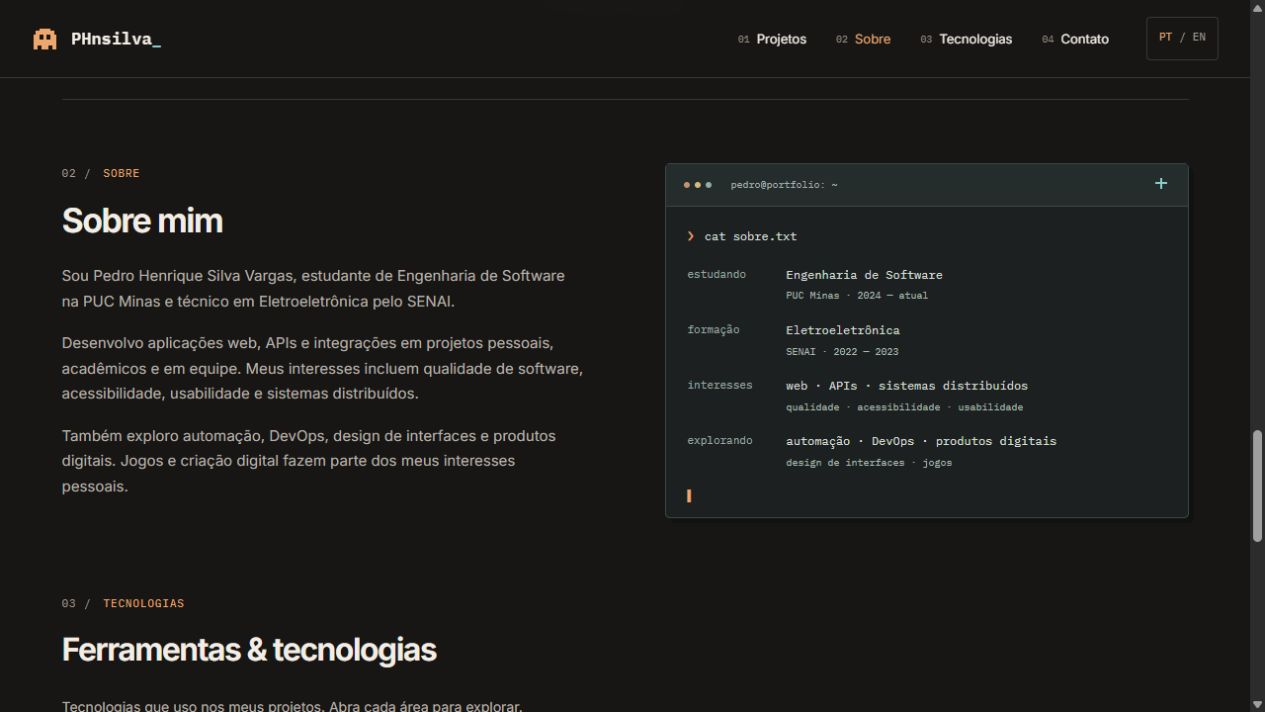
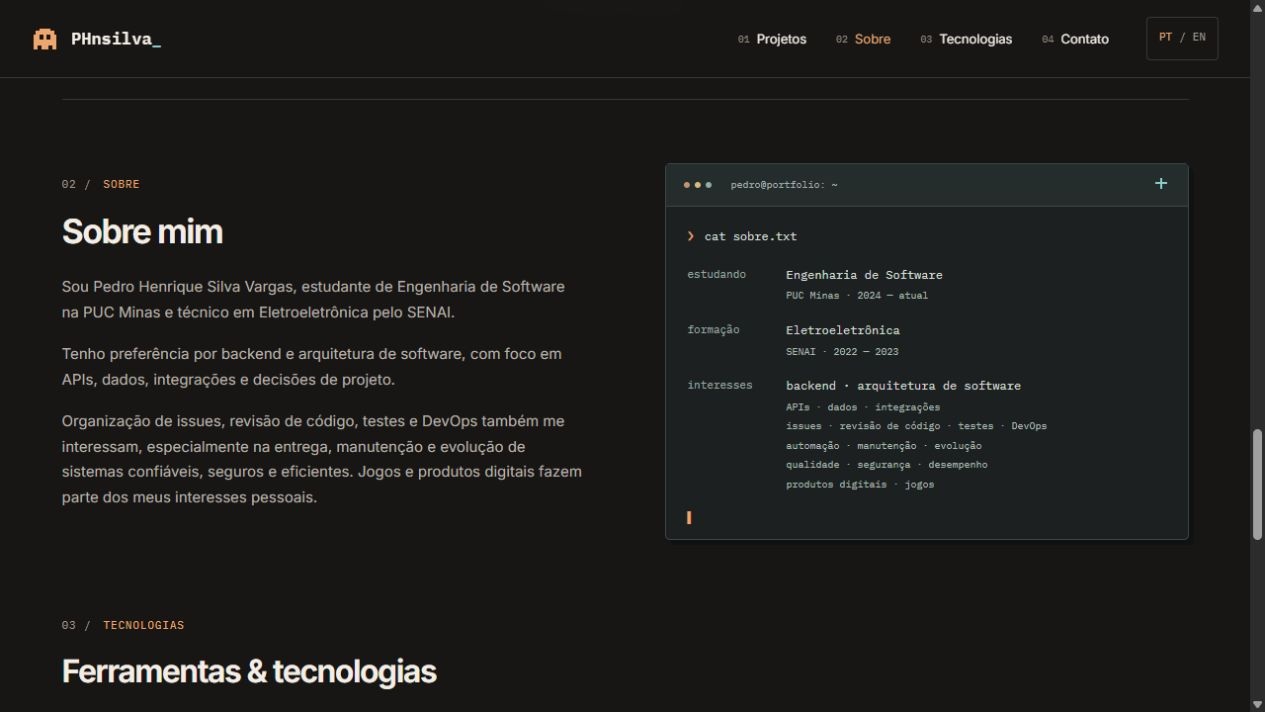
fix: corrige interesses e seleção da navegação (#5)

diff --git a/frontend/src/pages/Home.tsx b/frontend/src/pages/Home.tsx
@@ -196,16 +196,16 @@ export default function Home() {
           <p>
             {pick(
               b(
-                'Desenvolvo aplicações web, APIs e integrações em projetos pessoais, acadêmicos e em equipe. Meus interesses incluem qualidade de software, acessibilidade, usabilidade e sistemas distribuídos.',
-                'I develop web applications, APIs and integrations in personal, academic and team projects. My interests include software quality, accessibility, usability and distributed systems.',
+                'Tenho preferência por backend e arquitetura de software, com foco em APIs, dados, integrações e decisões de projeto.',
+                'I prefer backend development and software architecture, with a focus on APIs, data, integrations and design decisions.',
               ),
             )}
           </p>
           <p>
             {pick(
               b(
-                'Também exploro automação, DevOps, design de interfaces e produtos digitais. Jogos e criação digital fazem parte dos meus interesses pessoais.',
-                'I also explore automation, DevOps, interface design and digital products. Games and digital creation are among my personal interests.',
+                'Organização de issues, revisão de código, testes e DevOps também me interessam, especialmente na entrega, manutenção e evolução de sistemas confiáveis, seguros e eficientes. Jogos e produtos digitais fazem parte dos meus interesses pessoais.',
+                'I am also interested in issue planning, code review, testing and DevOps, especially in delivering, maintaining and evolving reliable, secure and efficient systems. Games and digital products are among my personal interests.',
               ),
             )}
           </p>
@@ -242,31 +242,32 @@ export default function Home() {
               <div>
                 <dt>{pick(b('interesses', 'interests'))}</dt>
                 <dd>
-                  {pick(
-                    b('web · APIs · sistemas distribuídos', 'web · APIs · distributed systems'),
-                  )}
+                  {pick(b('backend · arquitetura de software', 'backend · software architecture'))}
+                  <small>
+                    {pick(b('APIs · dados · integrações', 'APIs · data · integrations'))}
+                  </small>
                   <small>
                     {pick(
                       b(
-                        'qualidade · acessibilidade · usabilidade',
-                        'quality · accessibility · usability',
+                        'issues · revisão de código · testes · DevOps',
+                        'issues · code review · testing · DevOps',
                       ),
                     )}
                   </small>
-                </dd>
-              </div>
-              <div>
-                <dt>{pick(b('explorando', 'exploring'))}</dt>
-                <dd>
-                  {pick(
-                    b(
-                      'automação · DevOps · produtos digitais',
-                      'automation · DevOps · digital products',
-                    ),
-                  )}
                   <small>
-                    {pick(b('design de interfaces · jogos', 'interface design · games'))}
+                    {pick(
+                      b(
+                        'automação · manutenção · evolução',
+                        'automation · maintenance · evolution',
+                      ),
+                    )}
                   </small>
+                  <small>
+                    {pick(
+                      b('qualidade · segurança · desempenho', 'quality · security · performance'),
+                    )}
+                  </small>
+                  <small>{pick(b('produtos digitais · jogos', 'digital products · games'))}</small>
                 </dd>
               </div>
             </dl>

diff --git a/frontend/src/components/Layout.tsx b/frontend/src/components/Layout.tsx
@@ -27,7 +27,54 @@ function Header() {
   const { hash, pathname } = useLocation();
   const { lang, toggleLang, pick } = useI18n();
   const [open, setOpen] = useState(false);
+  const [activeSection, setActiveSection] = useState('');
   const menuButton = useRef<HTMLButtonElement>(null);
+  useEffect(() => {
+    if (pathname !== '/') return;
+    const sections = ['inicio', ...navigation.map((item) => item.id)]
+      .map((id) => document.getElementById(id))
+      .filter((section): section is HTMLElement => section !== null);
+    let frame = 0;
+    function update() {
+      frame = 0;
+      const headerBottom =
+        document.querySelector('.site-header')?.getBoundingClientRect().bottom ?? 0;
+      const marker = headerBottom + 24;
+      const visibleSections = sections.map((section) => ({
+        id: section.id,
+        bounds: section.getBoundingClientRect(),
+      }));
+      let current = visibleSections.find(
+        ({ bounds }) => bounds.top <= marker && bounds.bottom > marker,
+      )?.id;
+      if (
+        window.scrollY > 0 &&
+        window.scrollY + window.innerHeight >= document.documentElement.scrollHeight - 2
+      ) {
+        // At the page end, the final section may not reach the header's activation line.
+        const remainingSections = visibleSections.filter(
+          ({ bounds }) => bounds.bottom > headerBottom && bounds.top < window.innerHeight,
+        );
+        current = remainingSections[remainingSections.length - 1]?.id;
+      }
+      setActiveSection(current ?? '');
+    }
+    function schedule() {
+      if (!frame) frame = requestAnimationFrame(update);
+    }
+    schedule();
+    window.addEventListener('scroll', schedule, { passive: true });
+    window.addEventListener('resize', schedule);
+    const observer = typeof ResizeObserver === 'undefined' ? null : new ResizeObserver(schedule);
+    const main = document.getElementById('main-content');
+    if (main) observer?.observe(main);
+    return () => {
+      cancelAnimationFrame(frame);
+      window.removeEventListener('scroll', schedule);
+      window.removeEventListener('resize', schedule);
+      observer?.disconnect();
+    };
+  }, [pathname]);
   useEffect(() => {
     if (!open) return;
     const dismiss = (event: KeyboardEvent) => {
@@ -82,7 +129,7 @@ function Header() {
                   requestAnimationFrame(() => focusSection(hash));
                 }
               }}
-              aria-current={hash === `#${item.id}` ? 'location' : undefined}
+              aria-current={activeSection === item.id ? 'location' : undefined}
             >
               <span className="nav-index" aria-hidden="true">
                 0{index + 1}

diff --git a/frontend/tests/navigation.test.tsx b/frontend/tests/navigation.test.tsx
@@ -1,0 +1,51 @@
+import { afterEach, describe, expect, it, vi } from 'vitest';
+import { fireEvent, render, screen, waitFor } from '@testing-library/react';
+import App from '../src/App';
+import { I18nProvider } from '../src/i18n/I18nProvider';
+
+afterEach(() => vi.restoreAllMocks());
+
+describe('navigation follows the visible section', () => {
+  it('updates selection during manual scrolling without reusing the URL hash', async () => {
+    let scroll = 3100;
+    const positions: Record<string, [number, number]> = {
+      inicio: [0, 800],
+      projetos: [900, 3000],
+      sobre: [3200, 3900],
+      ferramentas: [4000, 4700],
+      contato: [5000, 5250],
+    };
+    vi.spyOn(Element.prototype, 'getBoundingClientRect').mockImplementation(function () {
+      if (this.classList.contains('site-header')) return new DOMRect(0, 0, 1280, 80);
+      const [top, bottom] = positions[this.id] ?? [0, 0];
+      return new DOMRect(0, top - scroll, 1280, bottom - top);
+    });
+    window.history.replaceState(null, '', '/#sobre');
+    render(
+      <I18nProvider>
+        <App />
+      </I18nProvider>,
+    );
+    const about = screen.getByRole('link', { name: 'Sobre', exact: true });
+    const technologies = screen.getByRole('link', { name: 'Tecnologias', exact: true });
+    await waitFor(() => expect(about.getAttribute('aria-current')).toBe('location'));
+
+    scroll = 3900;
+    fireEvent.scroll(window);
+    await waitFor(() => expect(technologies.getAttribute('aria-current')).toBe('location'));
+    expect(about.hasAttribute('aria-current')).toBe(false);
+    expect(window.location.hash).toBe('#sobre');
+
+    scroll = 0;
+    fireEvent.scroll(window);
+    await waitFor(() => expect(document.querySelector('[aria-current="location"]')).toBeNull());
+
+    scroll = 900;
+    fireEvent.scroll(window);
+    await waitFor(() =>
+      expect(
+        screen.getByRole('link', { name: 'Projetos', exact: true }).getAttribute('aria-current'),
+      ).toBe('location'),
+    );
+  });
+});

diff --git a/frontend/tests/racer.test.ts b/frontend/tests/racer.test.ts
@@ -7,16 +7,16 @@ describe('pixel racer', () => {
     for (let i = 0; i < 3600; i++) advance(race, 1 / 60, () => 0);
     expect(race.crashed).toBe(false);
     expect(race.distance).toBeGreaterThan(2000);
-    expect(race.speed).toBe(540);
+    expect(race.speed).toBe(810);
     expect(race.obstacles.every((o) => o.y < ROAD.height + 48)).toBe(true);
     const rows = race.obstacles.map((o) => o.y).sort((a, b) => a - b);
-    for (let i = 1; i < rows.length; i++) expect(rows[i] - rows[i - 1]).toBeGreaterThan(179);
+    for (let i = 1; i < rows.length; i++) expect(rows[i] - rows[i - 1]).toBeGreaterThan(178);
   });
-  it('starts twice as fast and doubles acceleration', () => {
+  it('runs at 1.5 times the previous speed profile', () => {
     const race = newRace();
-    expect(race.speed).toBe(210);
+    expect(race.speed).toBe(315);
     for (let i = 0; i < 600; i++) advance(race, 1 / 60, () => 0);
-    expect(race.speed).toBeCloseTo(280, 5);
+    expect(race.speed).toBeCloseTo(420, 5);
   });
   it('clamps steering at the road boundaries and detects collision while crossing lanes', () => {
     const race = newRace();

diff --git a/frontend/src/components/PlayBreak.tsx b/frontend/src/components/PlayBreak.tsx
@@ -74,7 +74,7 @@ export default function PlayBreak({ onClose }: { onClose: () => void }) {
   const race = useRef(newRace());
   const phase = useRef<Phase>('ready');
   const [view, setView] = useState<Phase>('ready');
-  const [hud, setHud] = useState({ distance: 0, speed: 84 });
+  const [hud, setHud] = useState({ distance: 0, speed: 126 });
   function changePhase(next: Phase) {
     phase.current = next;
     setView(next);
@@ -120,7 +120,7 @@ export default function PlayBreak({ onClose }: { onClose: () => void }) {
   }, []);
   function start() {
     race.current = newRace();
-    setHud({ distance: 0, speed: 84 });
+    setHud({ distance: 0, speed: 126 });
     changePhase('running');
     canvas.current?.focus();
   }

diff --git a/frontend/src/games/racer.ts b/frontend/src/games/racer.ts
@@ -16,7 +16,7 @@ export function newRace(): Race {
     x: 170,
     seconds: 0,
     distance: 0,
-    speed: 210,
+    speed: 315,
     untilSpawn: 100,
     obstacles: [],
     crashed: false,
@@ -33,7 +33,7 @@ export function advance(race: Race, elapsed: number, random = Math.random) {
     const dt = Math.min(remaining, 1 / 120);
     remaining -= dt;
     race.seconds += dt;
-    race.speed = Math.min(540, 210 + race.seconds * 7);
+    race.speed = Math.min(810, 315 + race.seconds * 10.5);
     const travel = race.speed * dt;
     race.distance += travel / 5;
     const target = ROAD.lanes[race.lane];

diff --git a/docs/validation.md b/docs/validation.md
@@ -40,3 +40,13 @@ Data: 9 de outubro de 2026. Base `d3870b2c1fb2d64534b558a212543447387849a8`, já
 - Sobre, Tecnologias e Contato inspecionados em 320, 390 e 768 px e no desktop. Sem rolagem horizontal na página. Captura da apresentação: [about-refinement.jpg](prints/about-refinement.jpg).
 - O formulário valida os campos, bloqueia envios simultâneos e preserva o rascunho em falhas. Os três testes usam respostas simuladas; não comprovam entrega de e-mail.
 - Após a ativação confirmada pelo proprietário, o serviço aceitou o envio real com a origem do domínio público. Pedro confirmou o recebimento no Gmail e forneceu uma captura da mensagem. O endereço local solicitou ativação própria e exibiu erro, preservando o texto. A submissão pelo navegador de produção deve ser conferida após o deploy.
+
+## Interesses e seleção durante a rolagem
+
+Data: 9 de outubro de 2026. Base `3daf9b82d4f9f644a3ad7477d15feb7bd675bb99`, publicada pelo PR #4. O envio pelo formulário de produção dessa versão foi aceito e exibiu confirmação no navegador.
+
+- Interesses reunidos em uma única categoria, priorizando backend, arquitetura, APIs, dados, integrações, organização de issues, revisão de código, testes, DevOps e evolução dos sistemas. Conteúdo corrigido nas duas línguas conforme a preferência declarada por Pedro.
+- Seleção da navbar determinada pela seção na tela. Ao rolar de Sobre para Tecnologias e Contato, os destaques mudaram enquanto o endereço continuava com `#sobre`. Retorno pelo link Sobre também conferido. O contato permanece selecionado ao chegar ao fim da página, mesmo quando a seção é curta.
+- Dezenove testes passaram, incluindo a regressão de seleção por rolagem e a ausência de seleção ao retornar à abertura. ESLint, Prettier e build aprovados.
+- Perfil de velocidade multiplicado por 1,5: início a 126 km/h, aumento de 4,2 km/h por segundo e limite de 324 km/h. Simulação e jogo inspecionados; o painel começou a 126 km/h e avançou durante a corrida.
+- Texto, terminal e jogo inspecionados em 320 × 568 px e no desktop. Sem rolagem horizontal na prévia móvel. Captura da apresentação atualizada em `prints/about-refinement.jpg`.

diff --git a/README.md b/README.md
@@ -26,7 +26,7 @@ Capturas da reformulação, verificadas no navegador:
 - Apresentação imediata, com foto, formação e contatos.
 - Galeria com filtros por autoria, capturas reais e seis projetos selecionados: APAC Feminina, CalendarMate, Meritum, PsiHub, Sofiie e SlothSignal.
 - Página de detalhes por projeto, com problema, solução, participação, tecnologias e limitações.
-- Navegação entre páginas e seções, incluindo Tecnologias, com rolagem suave, foco no destino, menu para celular e rota de página não encontrada.
+- Navegação entre páginas e seções, incluindo Tecnologias, com seleção acompanhando a rolagem, foco no destino, menu para celular e rota de página não encontrada.
 - Conteúdo em português e inglês, com preferência salva localmente quando disponível.
 - Formulário compacto de contato, encaminhado ao Gmail pelo FormSubmit, e links diretos de e-mail, GitHub e LinkedIn.
 - Tema escuro em carvão, cobre e ciano, com retrato original, cenário pixelado e minigame opcional.
@@ -101,7 +101,7 @@ Os testes cobrem apresentação imediata, navegação de detalhes para seções,
 
 O motor do jogo também tem testes de aceleração, limites da pista, colisão durante mudança de faixa, passagem segura, espaçamento dos obstáculos e consistência entre taxas de quadros. No jogo, use `←` / `→` ou `A` / `D` para dirigir, `P` para pausar e `Esc` para fechar.
 
-O carro começa a 84 km/h e ganha 2,8 km/h por segundo, até 216 km/h. Esses valores são indicadores do minigame, sem pretensão de simulação física.
+O carro começa a 126 km/h e ganha 4,2 km/h por segundo, até 324 km/h. Esses valores são indicadores do minigame, sem pretensão de simulação física.
 
 Os testes do formulário usam respostas simuladas para verificar validação dos campos, prevenção de envios simultâneos, falhas e preservação da mensagem para nova tentativa. Um teste de envio real deve conferir a aceitação pelo serviço e o recebimento no Gmail separadamente.
 
